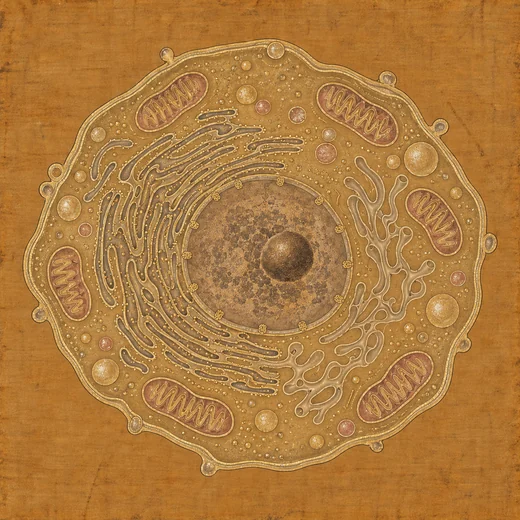
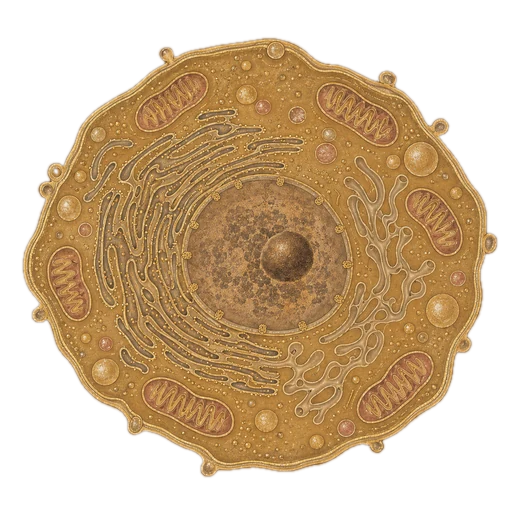
Four sections, six scales, cut-out paintings and lab members
Research now opens with six scales (adding population) and holds brain
resilience, the agents and the six directions; the nav reads Vision,
Research, Publications, People. Paintings are cut out from their silk so
they sit on the page. Larger type and less padding. People adds Wang Zirui,
Claude and Codex.

diff --git a/index.html b/index.html
@@ -14,7 +14,7 @@
 <link rel="canonical" href="https://lab.kejunying.com/">
 <meta name="theme-color" content="#0a53a3">
 <link rel="icon" href="assets/favicon.svg" type="image/svg+xml">
-<link rel="stylesheet" href="styles.css?v=20261014u">
+<link rel="stylesheet" href="styles.css?v=20261014w">
 <script>document.documentElement.classList.add('js');(function(){var a=new URLSearchParams(location.search).get('art');if(a!=='uk')document.documentElement.setAttribute('data-art','tang');})();</script>
 </head>
 <body>
@@ -27,9 +27,8 @@
       <span>Ying Lab</span>
     </a>
     <nav aria-label="Sections">
+      <a href="#mission">Vision</a>
       <a href="#research">Research</a>
-      <a href="#brain">Brain</a>
-      <a href="#agents">Agents</a>
       <a href="#publications">Publications</a>
       <a href="#people">People</a>
       <a class="nav-join btn" href="#join">Join <span aria-hidden="true">&rarr;</span></a>
@@ -49,7 +48,7 @@
     <a class="btn" href="#join">Join the lab <span aria-hidden="true">&rarr;</span></a>
   </div>
   <div class="hero-art">
-    <img src="assets/img/p-lineup.webp" width="1225" height="333" alt="Woodblock-style painting of a mouse, a naked mole-rat, a bat, a human seen from behind and a bowhead whale breaching, with a Greenland shark swimming below the waves.">
+    <img src="assets/img/p-lineup.webp" width="1225" height="333" alt="Painting of a mouse, a naked mole-rat, a bat, a human seen from behind and a bowhead whale breaching, with a Greenland shark swimming below the waves.">
     <i class="star star-l" aria-hidden="true"></i><i class="star star-r" aria-hidden="true"></i>
   </div>
   <div class="wrap hero-foot">
@@ -72,31 +71,34 @@
   </div>
 </section>
 
-<section class="scales" id="scales">
+<section class="scales" id="research">
   <div class="wrap two">
-    <h2>AI for biology, across scales</h2>
+    <h2>Research</h2>
     <div class="prose">
-      <p>Most AI for biology works at the smallest scales, on protein structure and virtual cells. Aging shows itself in the whole organism: in disease, in death and in the lifespan of a species. We model every scale, and much of our work starts at the human and the species, where few models exist.</p>
+      <p>Most AI for biology works on protein structure and virtual cells. Aging shows itself in the whole organism: in disease, in death and in the lifespan of a species. We model all six scales, and much of our work starts at the species, the population and the individual, where few models exist.</p>
+      <p>Every project runs one loop. We measure a biological state, model it, let the model nominate an intervention, design the molecule, test it and feed the result back.</p>
     </div>
   </div>
   <div class="wrap">
     <figure class="scales-fig">
       <ol class="scales-labels scales-row">
-        <li><img src="assets/img/uk-species.webp" width="520" height="520" loading="lazy" alt="Woodblock-style painting of a bowhead whale, a Greenland shark, an elephant, a human, a bat and a mouse."><b>Species</b><span>Pan-species models</span></li>
-        <li><img src="assets/img/uk-human.webp" width="520" height="520" loading="lazy" alt="Woodblock-style painting of a human seen from behind."><b>Human</b><span>Human health models</span></li>
-        <li><img src="assets/img/uk-tissue.webp" width="520" height="520" loading="lazy" alt="Woodblock-style painting of a section of tissue."><b>Tissue</b><span>Virtual tissues</span></li>
-        <li><img src="assets/img/uk-cell.webp" width="520" height="520" loading="lazy" alt="Woodblock-style painting of a cell with its nucleus and organelles."><b>Cell</b><span>Virtual cells</span></li>
-        <li><img src="assets/img/uk-molecule.webp" width="520" height="520" loading="lazy" alt="Woodblock-style painting of a protein structure."><b>Molecule</b><span>Protein models and design</span></li>
+        <li><img src="assets/img/uk-species.webp" width="520" height="520" loading="lazy" alt="Painting of a bowhead whale, a Greenland shark, an elephant, a human, a bat and a mouse."><b>Species</b><span>Pan-species models</span></li>
+        <li><img src="assets/img/uk-population.webp" width="520" height="520" loading="lazy" alt="Painting of people of all ages walking together."><b>Population</b><span>Cohorts and biobanks</span></li>
+        <li><img src="assets/img/uk-human.webp" width="520" height="520" loading="lazy" alt="Painting of a human seen from behind."><b>Individual</b><span>Human health models</span></li>
+        <li><img src="assets/img/uk-tissue.webp" width="520" height="520" loading="lazy" alt="Painting of a section of tissue."><b>Tissue</b><span>Virtual tissues</span></li>
+        <li><img src="assets/img/uk-cell.webp" width="520" height="520" loading="lazy" alt="Painting of a cell with its nucleus and organelles."><b>Cell</b><span>Virtual cells</span></li>
+        <li><img src="assets/img/uk-molecule.webp" width="520" height="520" loading="lazy" alt="Painting of a protein structure."><b>Molecule</b><span>Protein models and design</span></li>
       </ol>
     </figure>
   </div>
 </section>
 
-<section class="brain blue" id="brain">
+<section class="brain blue" id="brain" aria-label="Brain resilience">
   <div class="wrap brain-grid">
-    <figure class="brain-art"><img src="assets/img/uk-brain.webp" width="900" height="900" loading="lazy" alt="Woodblock-style painting of a human brain with a lattice of gold lines running through its folds."></figure>
+    <figure class="brain-art"><img src="assets/img/uk-brain.webp" width="900" height="900" loading="lazy" alt="Painting of a human brain with a lattice of gold lines running through its folds."></figure>
     <div>
-      <h2>Brain resilience</h2>
+      <p class="label">Our first system</p>
+      <h3 class="sub-h">Brain resilience</h3>
       <div class="prose">
         <p>Aging is the largest risk factor for Alzheimer's and Parkinson's disease, yet some people keep their memory into old age even when their brains carry the pathology. We want to know what protects them.</p>
         <p>We expect the longest-lived species to have the most resilient brains. A bowhead whale can live more than two centuries, a Greenland shark an estimated four, and a naked mole-rat decades longer than a rodent of its size. We compare their brains with human brains to find protective molecules and cell states.</p>
@@ -106,24 +108,25 @@
   </div>
 </section>
 
-<section class="agents" id="agents">
+<section class="agents" id="agents" aria-label="AI agents">
   <div class="wrap agents-grid">
     <div>
-      <h2>AI agents that read data and papers</h2>
+      <p class="label">How we work</p>
+      <h3 class="sub-h">AI agents that read data and papers</h3>
       <div class="prose">
         <p>Public repositories hold millions of molecular profiles and the literature millions of papers, most analyzed only for the question of the study that produced them. Our agents read both, run the analyses and propose what to test, and every claim keeps a record of the data, code and paper behind it.</p>
         <p>In ClockBase Agent, agents reanalyzed public profiles with aging clocks and nominated interventions predicted to lower biological age. One of them, ouabain, reduced frailty in aged mice.</p>
       </div>
       <p class="links"><a href="https://www.biorxiv.org/content/10.1101/2023.02.28.530532v4" rel="noopener">ClockBase Agent preprint</a><a href="https://www.clockbase.org/" rel="noopener">ClockBase</a><a href="https://github.com/albert-ying/autonomous-lab" rel="noopener">Autonomous Lab</a></p>
     </div>
-    <figure class="agents-art"><img src="assets/img/uk-agents.webp" width="520" height="520" loading="lazy" alt="Woodblock-style painting of a robotic arm, a microscope and an open notebook at a laboratory bench."></figure>
+    <figure class="agents-art"><img src="assets/img/uk-agents.webp" width="520" height="520" loading="lazy" alt="Painting of a robotic arm, a microscope and an open notebook at a laboratory bench."></figure>
   </div>
 </section>
 
-<section class="research blue" id="research">
+<section class="research blue" id="directions-sec" aria-label="Research directions">
   <div class="wrap">
-    <h2>Research</h2>
-    <p class="section-lede">Every project runs one loop: measure a biological state, model it, let the model nominate an intervention, design the molecule, test it and feed the result back. The first projects start in six areas.</p>
+    <p class="label">Directions</p>
+    <h3 class="sub-h">Six areas where the first projects start</h3>
   </div>
   <div class="wrap research-grid">
     <div class="loop" id="loop" aria-hidden="true"></div>
@@ -141,7 +144,7 @@
         </div>
       </article>
       <article data-steps="model">
-        <span class="roundel"><img src="assets/img/uk-cell.webp" width="520" height="520" loading="lazy" alt="Woodblock-style painting of a cell."></span>
+        <span class="roundel"><img src="assets/img/uk-cell.webp" width="520" height="520" loading="lazy" alt="Painting of a cell."></span>
         <div class="dir-body">
         <h3>Foundation and world models of biology</h3>
         <p>A world model predicts how a biological state changes over time and in response to an intervention.</p>
@@ -153,7 +156,7 @@
         </div>
       </article>
       <article data-steps="measure">
-        <span class="roundel"><img src="assets/img/uk-human.webp" width="520" height="520" loading="lazy" alt="Woodblock-style painting of a human seen from behind."></span>
+        <span class="roundel"><img src="assets/img/uk-human.webp" width="520" height="520" loading="lazy" alt="Painting of a human seen from behind."></span>
         <div class="dir-body">
         <h3>Measuring and modeling aging</h3>
         <ul>
@@ -164,7 +167,7 @@
         </div>
       </article>
       <article data-steps="nominate">
-        <span class="roundel"><img src="assets/img/uk-agents.webp" width="520" height="520" loading="lazy" alt="Woodblock-style painting of a robotic arm and a microscope at a laboratory bench."></span>
+        <span class="roundel"><img src="assets/img/uk-agents.webp" width="520" height="520" loading="lazy" alt="Painting of a robotic arm and a microscope at a laboratory bench."></span>
         <div class="dir-body">
         <h3>AI agents for scientific discovery</h3>
         <ul>
@@ -175,7 +178,7 @@
         </div>
       </article>
       <article data-steps="design test">
-        <span class="roundel"><img src="assets/img/uk-molecule.webp" width="520" height="520" loading="lazy" alt="Woodblock-style painting of a protein structure."></span>
+        <span class="roundel"><img src="assets/img/uk-molecule.webp" width="520" height="520" loading="lazy" alt="Painting of a protein structure."></span>
         <div class="dir-body">
         <h3>Generative therapeutic design</h3>
         <ul>
@@ -186,7 +189,7 @@
         </div>
       </article>
       <article data-steps="measure model nominate design test">
-        <span class="roundel"><img src="assets/img/uk-tissue.webp" width="520" height="520" loading="lazy" alt="Woodblock-style painting of a section of tissue."></span>
+        <span class="roundel"><img src="assets/img/uk-tissue.webp" width="520" height="520" loading="lazy" alt="Painting of a section of tissue."></span>
         <div class="dir-body">
         <h3>Disease areas</h3>
         <ul>
@@ -226,7 +229,7 @@
 <section class="people" id="people">
   <div class="wrap people-grid">
     <figure class="portrait">
-      <img src="assets/img/uk-portrait.webp" width="800" height="1000" loading="lazy" alt="Woodblock-style portrait of Kejun Albert Ying.">
+      <img src="assets/img/uk-portrait.webp" width="800" height="1000" loading="lazy" alt="Painted portrait of Kejun Albert Ying.">
     </figure>
     <div>
       <p class="label">People</p>
@@ -246,6 +249,29 @@
       </p>
       <p class="founding">The lab opens at Stanford University in January 2027, and the first members will shape how it works. <a href="#join">See who we are looking for.</a></p>
     </div>
+  </div>
+  <div class="wrap members">
+    <h3 class="sub-h">Lab members</h3>
+    <ul class="member-list">
+      <li>
+        <img src="assets/img/tang-portrait-zirui.webp?v=t7" width="800" height="1000" loading="lazy" alt="Painted portrait of Wang Zirui.">
+        <b>Wang Zirui</b>
+        <span class="member-role">Visiting student</span>
+        <p>Co-first author of HealthFlux, the lab's world model of human health.</p>
+      </li>
+      <li>
+        <img src="assets/img/tang-member-claude.webp?v=t5" width="800" height="1000" loading="lazy" alt="Painting of a gold starburst above an open notebook.">
+        <b>Claude</b>
+        <span class="member-role">AI lab member</span>
+        <p>A model made by Anthropic. Reads papers and data, runs analyses and drafts with the lab.</p>
+      </li>
+      <li>
+        <img src="assets/img/tang-member-codex.webp?v=t5" width="800" height="1000" loading="lazy" alt="Painting of a brush writing rows of strokes down a scroll beside an ink stone.">
+        <b>Codex</b>
+        <span class="member-role">AI lab member</span>
+        <p>A coding agent made by OpenAI. Writes, tests and maintains the lab's code.</p>
+      </li>
+    </ul>
   </div>
 </section>
 
@@ -290,9 +316,9 @@
   </div>
   <button class="pd-close" type="button" aria-label="Close">&times;</button>
 </dialog>
-<script src="assets/species.js?v=20261014u"></script>
-<script src="data.js?v=20261014u"></script>
-<script src="main.js?v=20261014u"></script>
-<script src="film.js?v=20261014u"></script>
+<script src="assets/species.js?v=20261014w"></script>
+<script src="data.js?v=20261014w"></script>
+<script src="main.js?v=20261014w"></script>
+<script src="film.js?v=20261014w"></script>
 </body>
 </html>

diff --git a/styles.css b/styles.css
@@ -493,3 +493,34 @@ html[data-art="tang"] .pd-img { aspect-ratio: 3 / 2; height: auto; }
 html[data-art="tang"] .pub-dialog { background: #efe3cb; }
 html[data-art="tang"] .pub-under { display: flex; flex-direction: column; align-items: center; gap: 6px; margin-left: auto; margin-right: auto; }
 html[data-art="tang"] .pub-under > * { grid-column: auto; text-align: center; max-width: 760px; }
+
+/* Oct 14 night: four sections (vision, research, publications, people), cut-out paintings, larger type, less empty space */
+html[data-art="tang"] { --section: clamp(64px, 7vw, 112px); }
+html[data-art="tang"] body { font-size: 1.125rem; }
+html[data-art="tang"] .prose { font-size: clamp(1.0625rem, 1.25vw, 1.25rem); line-height: 1.6; max-width: 62ch; }
+html[data-art="tang"] h2 { font-size: clamp(2.5rem, 5vw, 4.5rem); }
+.sub-h { font-family: var(--title); font-weight: 400; font-size: clamp(2rem, 3.6vw, 3.25rem); line-height: 1.06; letter-spacing: -0.016em; margin: 10px 0 22px; text-wrap: balance; }
+.scales-row { grid-template-columns: repeat(6, minmax(0, 1fr)); }
+html[data-art="tang"] .scales-row img, html[data-art="tang"] .brain-art img, html[data-art="tang"] .agents-art img,
+html[data-art="tang"] .roundel img { border-radius: 0; object-fit: contain; background: none; transform: none; }
+html[data-art="tang"] .roundel { background: none; border-radius: 0; overflow: visible; width: 120px; height: 120px; }
+html[data-art="tang"] .directions article { grid-template-columns: 120px minmax(0, 1fr); padding: 22px 0; }
+html[data-art="tang"] .directions h3 { font-size: clamp(1.75rem, 2.6vw, 2.375rem); }
+html[data-art="tang"] .directions p, html[data-art="tang"] .directions ul { font-size: 1.0625rem; }
+html[data-art="tang"] .scales-labels b { font-size: 1.625rem; }
+html[data-art="tang"] .scales-labels span { font-size: 0.6875rem; }
+html[data-art="tang"] .scales-fig { margin-top: clamp(20px, 3vw, 40px); }
+html[data-art="tang"] .brain-grid, html[data-art="tang"] .agents-grid { align-items: center; }
+html[data-art="tang"] .pub-title { font-size: clamp(1.5rem, 2.2vw, 2rem); }
+html[data-art="tang"] .pub-authors { font-size: 1rem; }
+html[data-art="tang"] .label { font-size: 0.75rem; }
+@media (max-width: 900px) { .scales-row { grid-template-columns: repeat(3, minmax(0, 1fr)); } }
+@media (max-width: 560px) { .scales-row { grid-template-columns: repeat(2, minmax(0, 1fr)); } }
+.members { margin-top: clamp(48px, 6vw, 88px); padding-top: clamp(32px, 4vw, 56px); border-top: 1px solid var(--rule); }
+.member-list { list-style: none; padding: 0; margin: 0; display: grid; grid-template-columns: repeat(3, minmax(0, 1fr)); gap: clamp(24px, 4vw, 64px); }
+.member-list img { width: 100%; max-width: 300px; aspect-ratio: 4 / 5; object-fit: contain; display: block; margin-bottom: 16px; }
+.member-list b { display: block; font-family: var(--title); font-weight: 400; font-size: clamp(1.625rem, 2.2vw, 2rem); line-height: 1.1; }
+.member-role { display: block; font-family: var(--code); font-size: 0.75rem; letter-spacing: 0.16em; text-transform: uppercase; color: var(--muted); margin: 6px 0 10px; }
+.member-list p { color: var(--ink-2); font-size: 1.0625rem; max-width: 34ch; }
+@media (max-width: 760px) { .member-list { grid-template-columns: 1fr; } .member-list img { max-width: 260px; } }
+html[data-art="tang"] .portrait img { object-fit: contain; border-radius: 0; filter: none; }

diff --git a/main.js b/main.js
@@ -3,7 +3,7 @@
   // An alternate art series can be shown with ?art=tang; image names differ only by prefix.
   if (document.documentElement.getAttribute('data-art') === 'tang') {
     Array.prototype.forEach.call(document.querySelectorAll('img[src*="assets/img/uk-"], img[src*="assets/img/p-"]'), function (im) {
-      im.src = im.getAttribute('src').replace('assets/img/uk-', 'assets/img/tang-').replace('assets/img/p-', 'assets/img/p-tang-').replace(/\.webp(\?.*)?$/, '.webp?v=t3');
+      im.src = im.getAttribute('src').replace('assets/img/uk-', 'assets/img/tang-').replace('assets/img/p-', 'assets/img/p-tang-').replace(/\.webp(\?.*)?$/, '.webp?v=t5');
     });
   }
   var NS = 'http://www.w3.org/2000/svg';
@@ -295,12 +295,13 @@
         if (!e.isIntersecting) return;
         // Sections without a nav link (hero, mission, scales) clear the marker.
         navLinks.forEach(function (a) {
-          if (a.getAttribute('href') === '#' + e.target.id) a.setAttribute('aria-current', 'true');
+          var id = { brain: 'research', agents: 'research', 'directions-sec': 'research' }[e.target.id] || e.target.id;
+          if (a.getAttribute('href') === '#' + id) a.setAttribute('aria-current', 'true');
           else a.removeAttribute('aria-current');
         });
       });
     }, { rootMargin: '-45% 0px -50% 0px' });
-    ['top', 'mission', 'scales', 'brain', 'agents', 'research', 'publications', 'people', 'join'].forEach(function (id) {
+    ['top', 'mission', 'research', 'brain', 'agents', 'directions-sec', 'publications', 'people', 'join'].forEach(function (id) {
       var s = document.getElementById(id);
       if (s) io.observe(s);
     });
